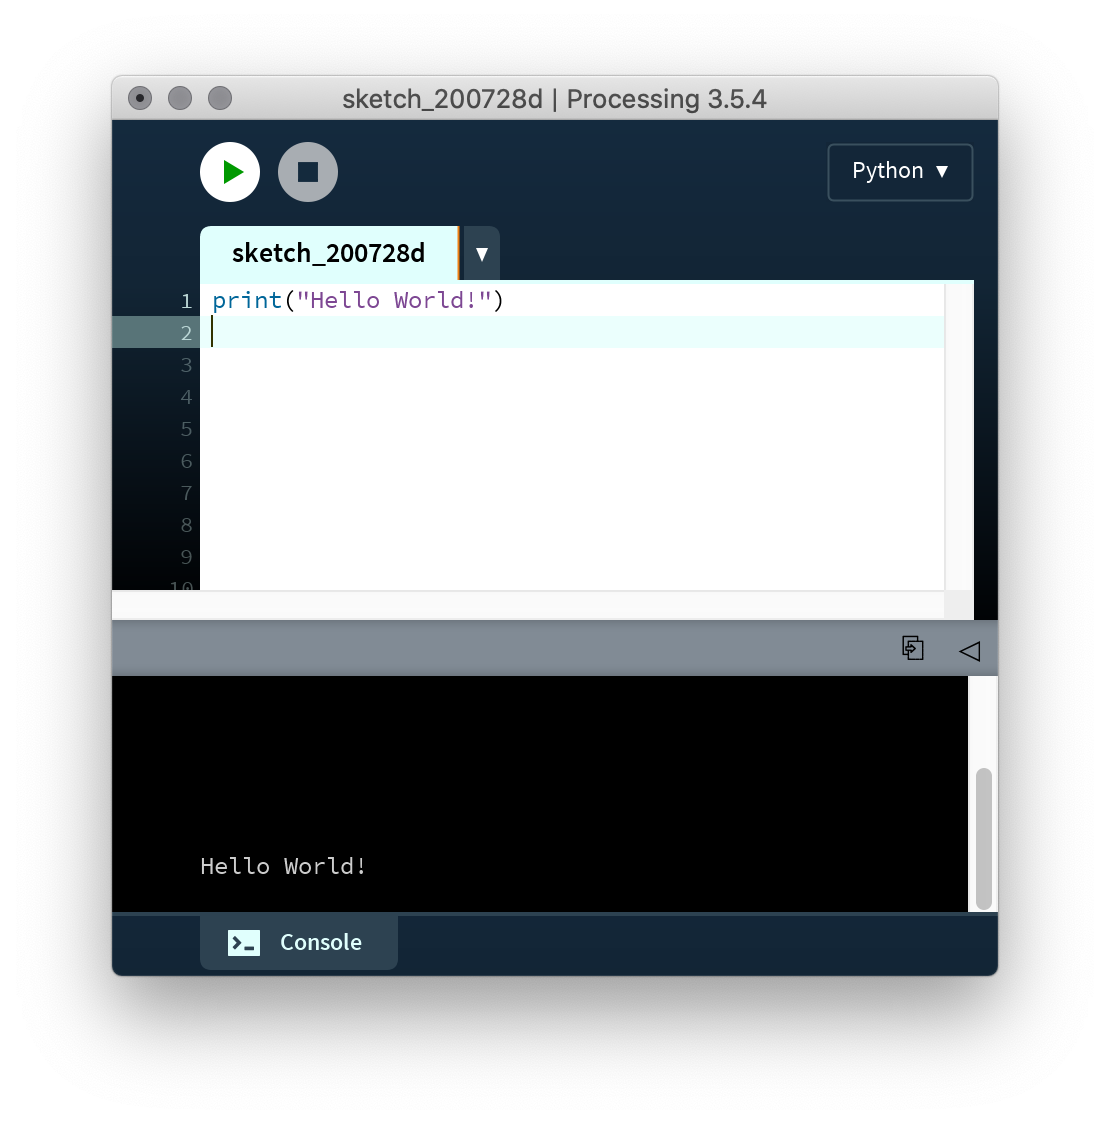
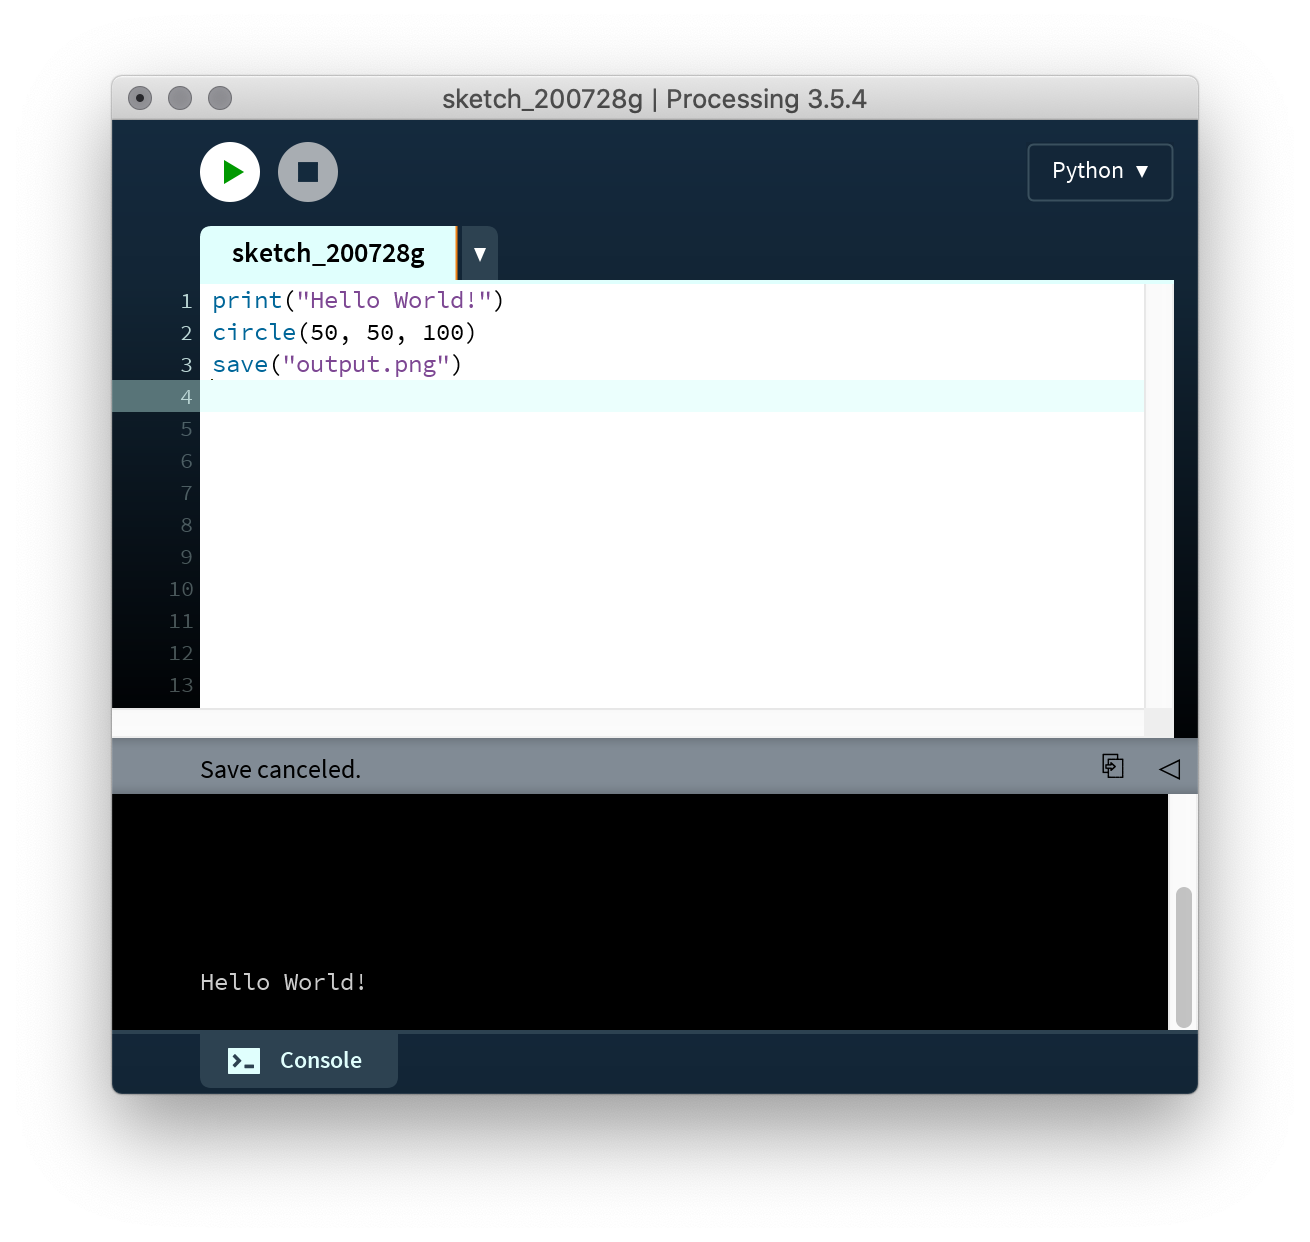
adding examples

Changed region(s): [[0.0613, 0.0623, 0.9189, 0.903]]

diff --git a/units/1_encoding/description.md b/units/1_encoding/description.md
@@ -4,24 +4,24 @@
 
 Fundamentally, computers represent the world in numeric form. Whether text, an image, music, seismological observations, or the fingerprint you use to unlock your phone, it's all numbers to the machine. How this is done is called **encoding**, and it's another quality that is characteristic of digital media.
 
-In our exercise from last class, a common problem was how to tell the other person _where_ and _in what direct_ on the paper to draw. Some of you may have used words like "the center" as a means of orientation, or even referenced a unit of measurement, like "about two inches from the previous line". Computers, however, typically represent the concept of "space" through a numeric coordinate system; a 2-dimensional canvas has a row (x) value and a column (y) value that correspond to _pixels_ (**pi** cture-**el** ements) on the screen. This is a good example of encoding, because it quantifies something intuitive like physical space into a numeric system that the computer can process.
+In our exercise from last class, a common problem was how to tell the other person _where_ and _in what direction_ on the paper to draw. Some of you may have used words like "the center" as a means of orientation, or even referenced a unit of measurement, like "about two inches from the previous line." Computers, however, typically represent the concept of "space" through a numeric coordinate system; a 2-dimensional canvas has a row (x) value and a column (y) value that correspond to _pixels_ (**pi** cture-**el** ements) on the screen. This is a good example of encoding, because it quantifies something intuitive like physical space into a numeric system that the computer can process.
 
 ## Context
 
 Of course, using coordinates to represent space is not unique to digital media. In the Western world, coordinate systems are associated with René Descartes and the Enlightenment (aka the "[Cartesian Grid](https://en.wikipedia.org/wiki/Cartesian_coordinate_system)"), when they were first used to visualize algebraic equations. Artists had been using grids before that, however, in order to divide up space into regularly sized units; notably, Leon Battista Alberti wrote a treatise in 1435 that included the use of grid systems to establish [linear perspective](https://en.wikipedia.org/wiki/Perspective_(graphical)) in painting. In the twentieth century, grids became very prominent through modernist [architecture]() and [design](https://www.readingdesign.org/modernist-grid).
 
 <p align="center">
-  <img src="albertisketch.jpg" width=400 /><br />
+  <img src="albertisketch.jpg" width=500 /><br />
   From Alberti's "De Pictura (On Painting)" (1435)<br />
 </p>
 
 <p align="center">
-  <img src="mondrian.jpg" width=400 /><br />
+  <img src="mondrian.jpg" width=500 /><br />
   Piet Mondrian, <i>Broadway Boogie Woogie</i> (1942)<br />
 </p>
 
 <p align="center">
-  <img src="mies.jpg" width=400 /><br />
+  <img src="mies.jpg" width=500 /><br />
   Grid-based architecture from Mies van der Rohe (1970s)<br />
 </p>
 
@@ -32,13 +32,13 @@ Grids on contemporary computers, and numeric encoding in computing general, inhe
 However, from early on, artists have co-opted those systems towards aesthetic ends. An early example is [Lillian Schwartz](https://en.wikipedia.org/wiki/Lillian_Schwartz), one of the first artists to adopt computers as her primary medium. As an artist-in-residence at Bell Labs, Schwartz created paintings and films that made use of, subverted, or expanded the possibilities of graphics systems.
 
 <p align="center">
-  <img src="schwartz.jpg" width=400 /><br />
+  <img src="schwartz.jpg" width=500 /><br />
   Lillian Schwartz, still from <i>Enigma</i> (1972)<br />
   <a href="http://lillian.com/1972-enigma-4-min-20-sec/">Watch the video</a><br />
 </p>
 
 <p align="center">
-  <img src="schwartz_2.jpg" width=400 /><br />
+  <img src="schwartz_2.jpg" width=500 /><br />
   Lillian Schwartz, <i>Olympiad</i> (1971)<br />
 </p>
 
@@ -51,22 +51,28 @@ Schwartz's work plays with the abstraction of representational imagery into digi
 Spatial coordinates work a little differently with computers than you might be used to from math class. Rather than `0, 0` (aka the "origin") being in the center of the screen, it represents the top-left corner, and as the `y` value gets larger, we move further down:
 
 <p align="center">
-  <img src="grid.svg" width=400 /><br />  
+  <img src="grid.svg" width=500 /><br />  
 </p>
 
 
 Let's see how this works with Python Mode for Processing. Open processing and start a new Python sketch.
 
-First, we'll write two lines of code to create the canvas. Type the following on line 1 and 2 of your program:
+First, we'll create the canvas. Type the following on line 1:
 
 ```py
 size(640, 480)              # width, height
 ```
 
+This is what it should look like in the Processing window:
+
+<p align="center">
+  <img src="canvas_0.png" width=500 /><br />
+</p>
+
 In this code, `size` is a **function** provided by Processing that creates the "canvas," which takes two **parameters**, one each for how many pixels wide and how many high we want our canvas to be. Subsequently, when we run the program, a grey window should appear that is exactly 640 by 480 pixels (I chose these dimensions for fun because they are what personal computers used in the 80s and 90s).
 
 <p align="center">
-  <img src="canvas_1.png" width=400 /><br />
+  <img src="canvas_1.png" width=500 /><br />
 </p>
 
 Though the canvas is currently blank, what is key to realize is that it is essentially a fancy piece of graph paper, with each pixel corresponding to a pair of x/y coordinates.
@@ -75,7 +81,7 @@ Also, I wrote a "comment" in this code:
 ```py
       # width, height
 ```
-In Python, anything on a line after a `#` character is ignored by the program. You can use it to keep notes on what's going on in the code.
+In Python, anything on a line after a `#` character is ignored by the program. You can use comments to keep notes on what's going on in the code itself, which can be very helpful in larger programs.
 
 
 ### Lines and shapes
@@ -88,7 +94,7 @@ line(0, 0, 640, 480)        # begin x, begin y, end x, end y
 ```
 
 <p align="center">
-  <img src="canvas_2.png" width=400 /><br />
+  <img src="canvas_2.png" width=500 /><br />
 </p>
 
 How about a circle in the center?
@@ -103,7 +109,7 @@ circle(320, 240, 50)        # center x, center y, diameter
 ```
 
 <p align="center">
-  <img src="canvas_3.png" width=400 /><br />
+  <img src="canvas_3.png" width=500 /><br />
 </p>
 
 Processing provides several shapes that all work similarly, though they are all different: each one is a function that takes a series of parameters that provide the necessary information for the computer to draw that particular shape.
@@ -121,10 +127,12 @@ quad(338, 331, 386, 320, 369, 363, 330, 376) # x and y for each of the four poin
 ```
 
 <p align="center">
-  <img src="canvas_4.png" width=400 /><br />
+  <img src="canvas_4.png" width=500 /><br />
 </p>
 
 Notice how the shapes overlap each other depending on the order in which we write them in the code.
+
+Try experimenting with different shapes and parameters. You can type in as many as you want, in any order and on any line. You can only have one function per line, but blank lines in between functions are fine.
 
 ### Line size
 
@@ -149,7 +157,7 @@ square(50, 300, 50)
 ```
 
 <p align="center">
-  <img src="canvas_7.png" width=400 /><br />
+  <img src="canvas_7.png" width=500 /><br />
 </p>
 
 
@@ -199,7 +207,7 @@ circle(380, 250, 200)
 ```
 
 <p align="center">
-  <img src="canvas_5.png" width=400 /><br />
+  <img src="canvas_5.png" width=500 /><br />
 </p>
 
 It turns out that `stroke` and `fill` can take one more parameter—this one is for opacity, with 0 corresponding to completely transparent and 255 indicating completely opaque (which the is default). Here's the same code, but notice this fourth parameter added in:
@@ -222,7 +230,7 @@ circle(380, 250, 200)
 ```
 
 <p align="center">
-  <img src="canvas_6.png" width=400 /><br />
+  <img src="canvas_6.png" width=500 /><br />
 </p>
 
 In this example, the computer automatically computes the blended colors according to the overlap and the opacity.
@@ -233,7 +241,7 @@ In this example, the computer automatically computes the blended colors accordin
 We'll learn how to draw one more thing, although this one is a little weird. To make a curve with the `bezier` function, we need to specify the start and end "anchor" points, plus two "control" points. The line doesn't actually pass through these control points, but they influence how the line curves.
 
 <p align="center">
-  <img src="bezier.png" width=400 /><br />
+  <img src="bezier.png" width=500 /><br />
 </p>
 
 Here's an example in code:
@@ -248,7 +256,7 @@ bezier(100, 100, 400, 100, 500, 200, 540, 380)
 
 And the result:
 <p align="center">
-  <img src="canvas_8.png" width=400 /><br />
+  <img src="canvas_8.png" width=500 /><br />
 </p>
 
 Notice how the curve follows the trajectory of the dashed red lines as best it can while still smoothly connecting the lines.
@@ -265,23 +273,53 @@ bezier(100, 100, 400, 100, 200, 400, 540, 380)
 ```
 
 <p align="center">
-  <img src="canvas_9.png" width=400 /><br />
+  <img src="canvas_9.png" width=500 /><br />
 </p>
 
 `bezier` is a very interesting function, but it does take some getting used to.
+
+## Saving an image
+
+Remember to periodically save your work. Don't use "Save As...", as that will only make things more confusing.
+
+<p align="center">
+  <img src="../0_algorithm/canvas_10.png" width=300 /><br />
+</p>
+
+In addition, if the last line of your sketch is the `save` function, you'll have an image file in your sketch folder.
+
+```py
+# draw some things
+size(640, 480)
+background(69, 209, 99)
+strokeWeight(5)
+noFill()
+bezier(100, 100, 400, 100, 200, 400, 540, 380)
+
+# make an image file
+save("output.png")    
+```
+
+<p align="center">
+  <img src="../0_algorithm/canvas_9.png" width=500 /><br />
+</p>
+
 
 Phew, that's a lot to absorb at once. Don't worry, if all of this seems complicated, it will get more intuitive with practice, and we will learn some shortcuts next unit. But for now...
 
 
 ## Sketch #1
 
-In this sketch, you will become familiar with drawing using coordinates. To explore the relationship of digital "space" to traditional depictions of the world, you will choose a [famous landscape painting from art history](https://www.google.com/search?q=famous+landscape+painting) and reinterpret it in code. _Reinterpret_ means that you do not necessarily have to try and reproduce the painting exactly—rather, you must choose how to work with code in a way that retains a sense of the original composition but which expresses something new. Pay particular attention to your use of color.
+In this sketch, you will practice with drawing using coordinates. To explore the relationship of digitally encoded "space" to traditional depictions of the world, you will choose a [famous landscape painting from art history](https://www.google.com/search?q=famous+landscape+painting) and reinterpret it in code. _Reinterpret_ means that you do not necessarily have to try and reproduce the painting exactly—rather, you must choose how to work with code in a way that retains a sense of the original composition but which expresses something new. Pay particular attention to your use of color.
+
+Turn in the contents of your sketch folder to Google Classroom. In addition, upload an image of the original painting, and a document that includes your title, the artist and year of the original painting, and a [3-sentence description](../../resources/description_guidelines.md) that explains the choices you made in your reinterpretation.
 
 
+### Examples
 
+Here's some inspiration from last semester, with the original and reinterpreted landscapes:
 
-Include your title, the artist and year of the original painting, and a [3-sentence description](../../resources/description_guidelines.md) that explains the choices you made in your reinterpretation
-
-folder with two images and the and the .pyde file?
-
----> figure out how to turn in via the other setup doc
+<p align="center">
+  <img src="examples/aijaeh_hennessey_1.jpg" width="400" align="left" /><br />
+  <img src="examples/aijaeh_hennessey_2.png" width="400" align="left" /><br />
+</p>

diff --git a/plan.md b/plan.md
@@ -1,11 +1,13 @@
-## Class session rotation
-- Introduce a new unit by following the material (print beforehand!), basically I just work it out in realtime and they watch me to see what I'm doing -- then they'll look at the assignment page afterwards
-- jump in on the chat with questions
-- Student presentations followed by ad lib help and examples during work time
-- Preliminary crit (5min/student max) followed by ad lib help and examples during work time
-- Final crit (5min/student max) and we're out
-/
-- Follow the syllabus for small exceptions / intros
+for submission:
+- the .pyde file
+- saved output
+- artwork description file
+- other files
+
+
+is there a participation grade?
+going to have to be participation on google classroom
+
 
 
 ## Units
@@ -18,18 +20,24 @@
     - examples
 - the sketch
 
+## Class session rotation
+- Introduce a new unit
+    - follow the material (print beforehand!)
+    - I just work it out in realtime and they watch me to see what I'm doing
+    - Students jump in on the chat with questions
+    - they'll look at the assignment page afterwards (it's scheduled to appear right after (or during?) class)
+- Student presentations followed by ad lib help and examples during work time
+- Preliminary crit (5min/student max) followed by ad lib help and examples during work time
+    - everyone presents via screen sharing, comments over chat (which I save)
+- Final crit (5min/student max) and we're out
+    - everyone presents via screen sharing, comments over chat (which I save)
+- Follow the syllabus for small exceptions / intros
 
-## Crits
-Crits happen in person via video, but also through the chat, which is super helpful format, actually.
 
 ## Todo
-- online form for questionnaire
 - exercise for each programming topic
 - fill out all units
-- download / install instructions for processing.py
-
-- mini assignments: questionnaire + download / install processing
-
+- cheat sheet for Python Mode
 
 
 
@@ -45,3 +53,10 @@ https://www.w3schools.com/python/default.asp
 
 
 https://newmedia.fandom.com/wiki/Numerical_Representation
+
+
+//
+
+ok. so, problems:
+
+- interface, emergence, and (maybe) glitch are the only assignments that are animated. so at that point, will have to figure out image sequence saving. actually, it doesn't matter for interface—can just have the result. so really, emergence is the only one, and that actually fits pedagogically. great.

diff --git a/units/0_algorithm/getting_started.md b/units/0_algorithm/getting_started.md
@@ -42,10 +42,12 @@ After you do this, quit Processing and re-open it. You should then be able to se
 
 ## Hello World
 
-It is tradition to write a "Hello World" program to make sure everything is up and running correctly. To do that, type the following into your sketch (pay attention to quotation marks and the lack of spacing):
+It is tradition to write a "Hello World" program to make sure everything is up and running correctly. To do that, type the following into your sketch _exactly_ as it is written here—don't worry about what all this means, we'll cover it in future classes:
 
 ```py
 print("Hello World!")
+circle(50, 50, 25)
+save("output.png")
 ```
 
 To run your program, click the button that looks like a "play" icon (or type Command-R). You should see something like this:
@@ -60,13 +62,37 @@ To run your program, click the button that looks like a "play" icon (or type Com
   <img src="canvas_6.png" width=200 /><br />
 </p>
 
-That's it! You've created your first program.
+Congrats! You've created your first program.
 
+<br />
 
-## Error messages
+## A note about error messages
 
 As you will learn, you will have to write Python code _exactly_ right for it to work. The computer has no ability to guess at what you mean. When something doesn't make sense to the computer, you'll see an error. Don't be afraid of this! In fact, it's a good thing, because it helps us figure out what's going on in the program and to correct it.
 
 <p align="center">
   <img src="canvas_7.png" width=500 /><br />
+</p>
+
+Now that you know what to expect, you won't be surprised by the first time you see that red text.
+
+
+## How to submit your work
+
+First, make sure you save your sketch. Don't use "Save As...", as that will only make things more confusing.
+
+<p align="center">
+  <img src="canvas_10.png" width=300 /><br />
+</p>
+
+Then, to turn in your sketch, go up to the "Sketch" menu and choose the "Show Sketch Folder" option:
+
+<p align="center">
+  <img src="canvas_8.png" width=300 /><br />
+</p>
+
+Inside, you'll find several files: upload all of them to Google Classroom to complete the assignment.
+
+<p align="center">
+  <img src="canvas_9.png" width=500 /><br />
 </p>
